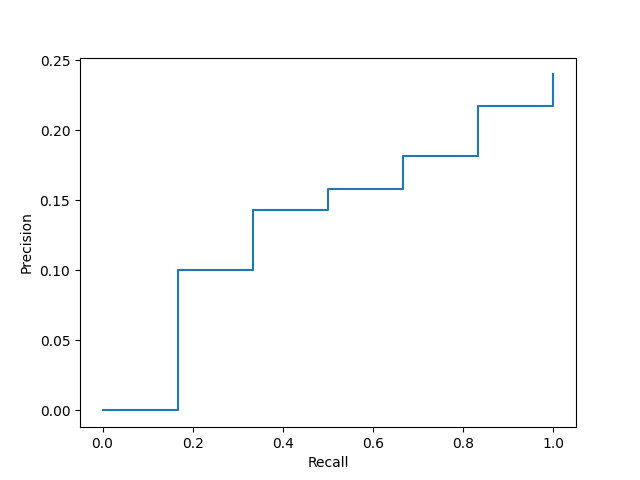
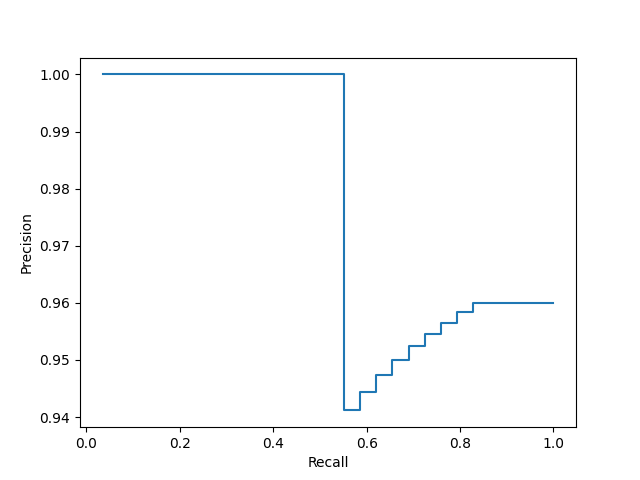
Base model evaluation done

diff --git a/evaluation.py b/evaluation.py
@@ -4,14 +4,22 @@ import numpy as np
 import matplotlib.pyplot as plt
 import pandas as pd
 
-results = requests.get('http://localhost:8983/solr/books/select?fl=title%2C%20authors%2C%20rating%2C%20published_date%2C%20description&indent=true&q.op=OR&q=description%3A%22dragons%22%0Atitle%3A%22dragons%22%0Acategories%3A%22fantasy%22&rows=25&sort=rating%20desc').json()['response']['docs']
+#results = requests.get('http://localhost:8983/solr/books/select?fl=title%2C%20authors%2C%20categories%2C%20rating%2C%20price%2C%20published_date%2C&fq=rating%3A%5B4%20TO%20*%5D%2C%20published_date%3A%5B2000%20TO%202020%5D%2C%20price%3A%5B*%20TO%204%5D&indent=true&q.op=AND&q=categories%3Afiction').json()['response']['docs']
+#results = requests.get('http://localhost:8983/solr/books/select?fl=title%2C%20authors%2C%20rating%2C%20published_date%2C%20description&indent=true&q.op=OR&q=description%3A%22dragons%22%0Atitle%3A%22dragons%22%0Acategories%3A%22fantasy%22&rows=25&sort=rating%20desc').json()['response']['docs']
+#results = requests.get('http://localhost:8983/solr/books/select?fl=title%2C%20language%2C%20categories%2C%20price%2C%20page_count%2C%20ISBN&fq=price%3A%5B0%20TO%20*%5D&indent=true&q.op=OR&q=categories%3A%22Engineering%22%0Adescription%3A%22Engineering%22&rows=36&sort=rating%20desc%2C%20price%20asc').json()['response']['docs']
+#results = requests.get('http://localhost:8983/solr/books/select?fl=title%2C%20authors%2C%20published_date%2C%20categories%2C%20price&indent=true&q.op=OR&q=categories%3Acomics').json()['response']['docs']
+results = requests.get('http://localhost:8983/solr/books/select?fl=title%2C%20authors%2C%20categories%2C%20rating%2C%20page_count%2C%20price%2C%20description&indent=true&q.op=AND&q=description%3Amurder%0Acategories%3Amystery').json()['response']['docs']
 
-relevant = list(map(lambda el: el.strip(), open("evaluation/q2rels.txt").readlines()))
 
+relevant = list(map(lambda el: el.strip(), open("evaluation/q5rels.txt").readlines()))
+
+titles = []
 for doc in results:
-    print(doc['title'][0])
+    titles.append(doc['title'][0]) 
 
-"""
+comp = [x for x in relevant if x in titles]
+
+
 metrics = {}
 metric = lambda f: metrics.setdefault(f.__name__, f)
 
@@ -43,11 +51,16 @@ def ar():
 @metric
 def acc():
     sum = 0.0
-    for i in range(len(results)):
-        if (i == len(relevant)):
-            return sum / len(results)
-        if (results[i]['title'][0] == relevant[i]):
+    comp = [x for x in relevant if x in titles]
+    j = 0
+    for doc in results:
+        if (doc['title'][0] not in comp):
+            continue
+        if (doc['title'][0] == comp[j]):
             sum += 1.0
+            j += 1
+        else:
+            j += 1
     return sum / len(results)
 
 def calculate_metric(key):
@@ -66,7 +79,7 @@ df = pd.DataFrame([['Metric', 'Value']] +
     ]
 )
 
-with open('evaluation/results_Q2.tex', 'w') as tf:
+with open('evaluation/results_Q5.tex', 'w') as tf:
     tf.write(df.to_latex())
 
 precision_recall_match = {k: v for k, v in zip(recall_values, precision_values)}
@@ -82,5 +95,4 @@ for idx, step in enumerate(recall_values):
 
 disp = PrecisionRecallDisplay([precision_recall_match.get(r) for r in recall_values], recall_values)
 disp.plot()
-plt.savefig('images/precision_recall_Q2.png')
-"""
+plt.savefig('images/precision_recall_Q5.png')

diff --git a/create_qrel.py b/create_qrel.py
@@ -8,10 +8,14 @@ isbn['rating'] = pd.to_numeric(isbn['rating'])
 isbn['published_date'] = pd.to_numeric(isbn['published_date'])
 
 df_after_query = isbn.query("`rating` >= 4.0 and `price` <= 4.0 and `price` >= 0.0 and `published_date` <= 2020 and `published_date` >= 2000")
-df_other_query = isbn.query("title.str.contains('Engineering') or categories.str.contains('Engineering')", engine="python")
-df_other_query = df_other_query.sort_values(by=['price', 'rating'], ascending=[True, False])
-df_another_one = isbn.query("categories.str.contains('Fantasy') and (title.str.contains('dragon') or title.str.contains('Dragon') or description.str.contains('dragon') or description.str.contains('dragon'))", engine="python")
-df_another_one = df_another_one.sort_values(by=['rating'], ascending=False)
+df_other_query = isbn.query("title.str.contains('Engineering') or categories.str.contains('Engineering') or description.str.contains('Engineering') and `price` >= 0.0", engine="python")
+df_other_query = df_other_query.sort_values(by=['price', 'rating', 'title'], ascending=[True, False, False])
+df_another_one = isbn.query("categories.str.contains('Fantasy') or title.str.contains('dragon') or description.str.contains('dragon') or categories.str.contains('Dragon')", engine="python")
+df_another_one = df_another_one.sort_values(by=['rating', 'title'], ascending=[False, True])
+df_comics = isbn.query("categories.str.contains('Comics', na=False)", engine="python")
+df_mental_help = isbn.query("categories.str.contains('Mystery') and (title.str.contains('Murder') or description.str.contains('Murder'))", engine="python")
+df_mental_help = df_mental_help.sort_values(by=["page_count"], ascending=[True])
+
 
 titles = []
 
@@ -33,11 +37,25 @@ f = open('evaluation/q2rels.txt', 'w')
 for x in df_another_one['title']:
     f.write(x + "\n")
 
-f.close
+f.close()
 
 f = open('evaluation/q3rels.txt', 'w')
 
 for x in df_other_query['title']:
     f.write(x + "\n")
 
-f.close
+f.close()
+
+f = open('evaluation/q4rels.txt', 'w')
+
+for x in df_comics['title']:
+    f.write(x + "\n")
+
+f.close()
+
+f = open('evaluation/q5rels.txt', 'w')
+
+for x in df_mental_help['title']:
+    f.write(x + "\n")
+
+f.close()

diff --git a/evaluation/results_Q2.tex b/evaluation/results_Q2.tex
@@ -3,8 +3,8 @@
 {} &                  0 &         1 \\
 \midrule
 0 &             Metric &     Value \\
-1 &  Average Precision &  0.131695 \\
-2 &     Average Recall &  0.373333 \\
-3 &           Accuracy &       0.0 \\
+1 &  Average Precision &  0.982591 \\
+2 &     Average Recall &  0.435862 \\
+3 &           Accuracy &      0.36 \\
 \bottomrule
 \end{tabular}

diff --git a/evaluation/results_Q5.tex b/evaluation/results_Q5.tex
@@ -3,8 +3,8 @@
 {} &                  0 &         1 \\
 \midrule
 0 &             Metric &     Value \\
-1 &  Average Precision &  0.739523 \\
-2 &     Average Recall &  0.408854 \\
-3 &           Accuracy &  0.138889 \\
+1 &  Average Precision &  0.370408 \\
+2 &     Average Recall &       1.0 \\
+3 &           Accuracy &  0.142857 \\
 \bottomrule
 \end{tabular}

diff --git a/evaluation/results_Q4.tex b/evaluation/results_Q4.tex
@@ -1,0 +1,9 @@
+\begin{tabular}{lll}
+\toprule
+{} &                  0 &        1 \\
+\midrule
+0 &             Metric &    Value \\
+1 &  Average Precision &      1.0 \\
+2 &     Average Recall &  0.34375 \\
+\bottomrule
+\end{tabular}
